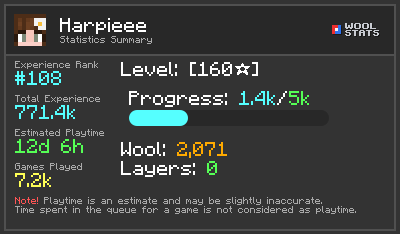
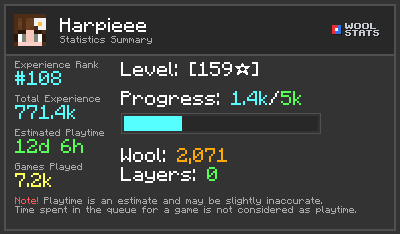
New Progress Bar

Changed region(s): [[0.3, 0.3889, 0.81, 0.7778], [0.51, 0.2692, 0.6, 0.3291]]

diff --git a/embed/src/main/java/codes/reason/wool/embed/components/ProgressComponent.java b/embed/src/main/java/codes/reason/wool/embed/components/ProgressComponent.java
@@ -9,6 +9,7 @@ import java.awt.image.BufferedImage;
 
 public class ProgressComponent implements Component {
 
+    private static final Color LINE = new Color(0x505050);
     private static final Color BACKGROUND = new Color(0x282828);
 
     private final int width;
@@ -23,18 +24,21 @@ public class ProgressComponent implements Component {
 
     @Override
     public BufferedImage render() {
-        final BufferedImage image = ImageHelper.createImage(width, 20);
+        final BufferedImage image = ImageHelper.createImage(width, 26);
         Graphics2D g2d = image.createGraphics();
 
         double multi = (double) this.value / (double) this.maxValue;
-        int progress = (int) (width * multi);
+        int progress = (int) ((width - 6) * multi);
 
         g2d.setRenderingHint(RenderingHints.KEY_ANTIALIASING, RenderingHints.VALUE_ANTIALIAS_ON);
 
+        g2d.setColor(LINE);
+        g2d.drawRect(0, 5, width - 1, 20);
+
         g2d.setColor(BACKGROUND);
-        g2d.fillRoundRect(0, 2, width, 16, 16, 16);
+        g2d.fillRect(3, 8, width - 6, 15);
         g2d.setColor(TextColor.AQUA.getColor());
-        g2d.fillRoundRect(0, 2, progress, 16, 16, 16);
+        g2d.fillRect(3, 8, progress, 15);
 
         g2d.dispose();
         return image;

diff --git a/bot/src/main/java/codes/reason/wool/bot/embeds/PlayerSummaryEmbed.java b/bot/src/main/java/codes/reason/wool/bot/embeds/PlayerSummaryEmbed.java
@@ -22,9 +22,9 @@ public class PlayerSummaryEmbed extends Embed {
 
     public PlayerSummaryEmbed(Player player) {
 
-        int stars = player.getStar();
         double experience = player.getExperience();
 
+        int stars = StatUtil.getStar(experience);
         double required = StatUtil.getRequired(stars);
         double progress = StatUtil.getProgress(stars, (int) experience);
 
@@ -59,15 +59,12 @@ public class PlayerSummaryEmbed extends Embed {
 
                         new TextComponent(MinecraftFont.SMALL, new TextPart("Games Played", TextColor.GRAY)),
                         new TextComponent(MinecraftFont.MEDIUM, new TextPart(NumberFormatter.shortenNumber(played), TextColor.YELLOW))
-
-
-
                 );
 
         Component scoreboard = new GroupComponent(0, 0, 0, 0)
                 .add(
                         new StarComponent(stars),
-                        new GroupComponent(8, 10, 6, 12)
+                        new GroupComponent(0, 10, 6, 12)
                                 .add(
                                         new TextComponent(
                                                 MinecraftFont.MEDIUM,

diff --git a/common/src/main/java/codes/reason/wool/common/StatUtil.java b/common/src/main/java/codes/reason/wool/common/StatUtil.java
@@ -21,9 +21,9 @@ public class StatUtil {
         };
     }
 
-    public static int getStar(int experience) {
-        int prestige = experience / 485000;
-        int remain = experience % 485000;
+    public static int getStar(double experience) {
+        int prestige = (int) (experience / 490000d);
+        int remain = (int) (experience % 490000d);
 
         int level;
 
